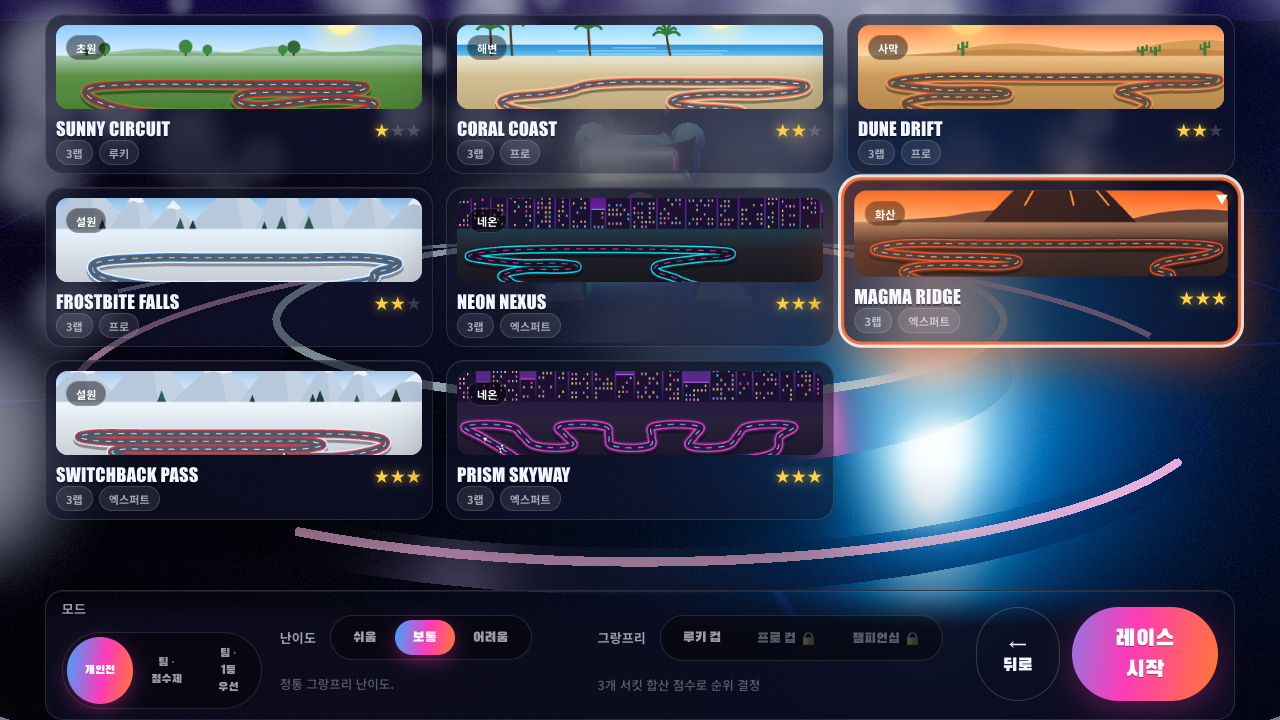
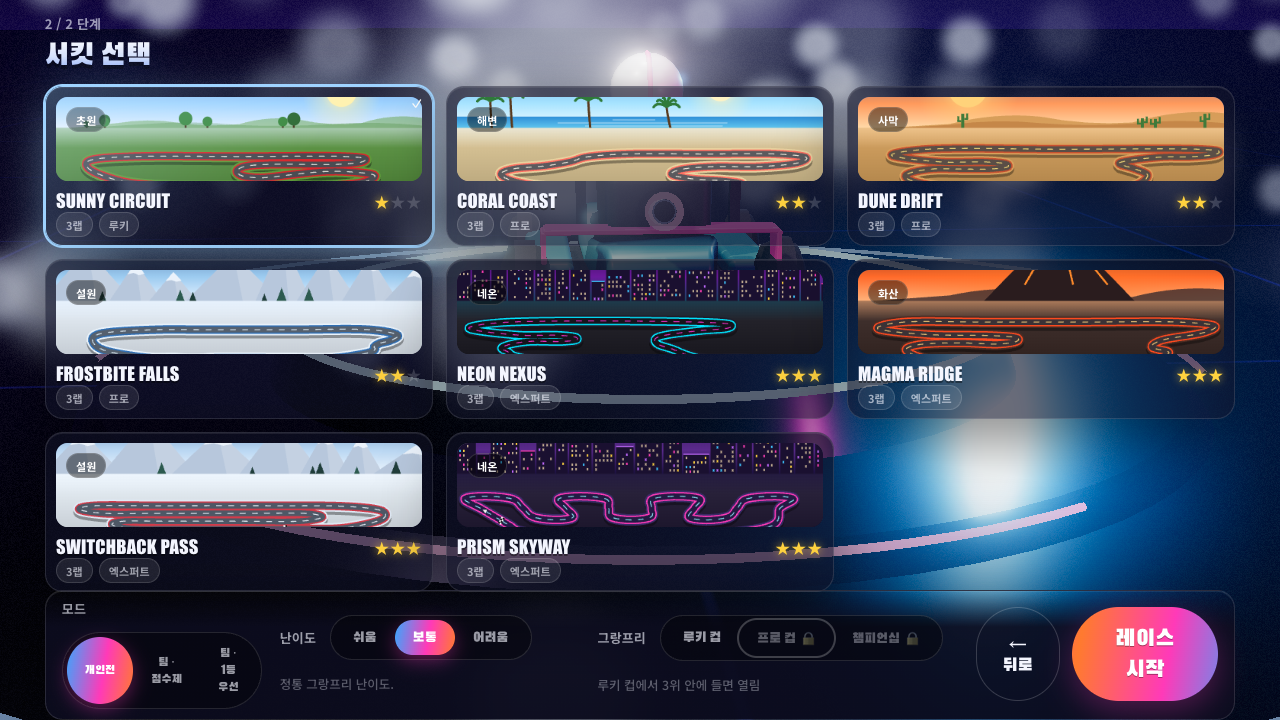
Track select: keep the '2/2 · choose circuit' header in the flow on PC (eight circuits' grid covered it); ONE store screenshot-03 re-taken

diff --git a/src/styles/17-short-desktop.css b/src/styles/17-short-desktop.css
@@ -43,3 +43,15 @@
 .btn.btn.btn {
   background-origin: border-box;
 }
+
+/* Track select on PC: the "2/2 · choose circuit" header was absolutely placed for the old six-card grid
+   that sat in the lower half; with eight circuits the grid reaches the top and covered it, at any window
+   height. Keep the header in the flow, above the grid. */
+@media (min-width: 701px) {
+  .panel-tracks {
+    align-items: stretch;
+  }
+  .panel-tracks .select-header {
+    position: static;
+  }
+}
